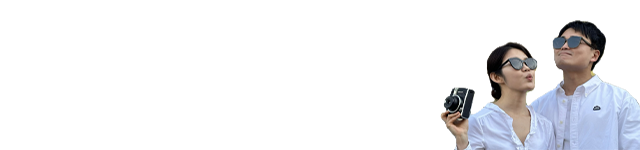
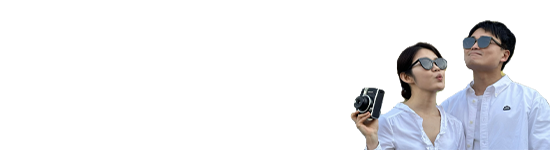
.

Changed region(s): [[0.6182, 0.1333, 0.9891, 1.0]]

diff --git a/index.htm b/index.htm
@@ -229,6 +229,7 @@
     background-image: url(./img/youandibg.png); 
     background-size: contain; 
     background-repeat: no-repeat;
+    background-position: right bottom;
     background-color: rgba(68, 251, 172, 0.532); border-radius: 20px;">
     누가 먼저랄 것도 없이 어느덧 만나고 있었습니다. <br /> 
     저희도 언제가 시작인지 잘 몰라요.</div>
@@ -256,6 +257,7 @@
     background-image: url(./img/youandibg.png); 
     background-size: contain; 
     background-repeat: no-repeat;
+    background-position: right bottom;
     background-color: rgba(253, 189, 255, 0.532); border-radius: 20px;">
     지선: 저는 가끔 오반14가 그렇게 생각나더라구요. <br /> 
     진욱: 저는 벤로막이 좋아요. 두가지 퍼스트필 캐스크를 잘 조합한 맛을 자랑하지요.</div>
